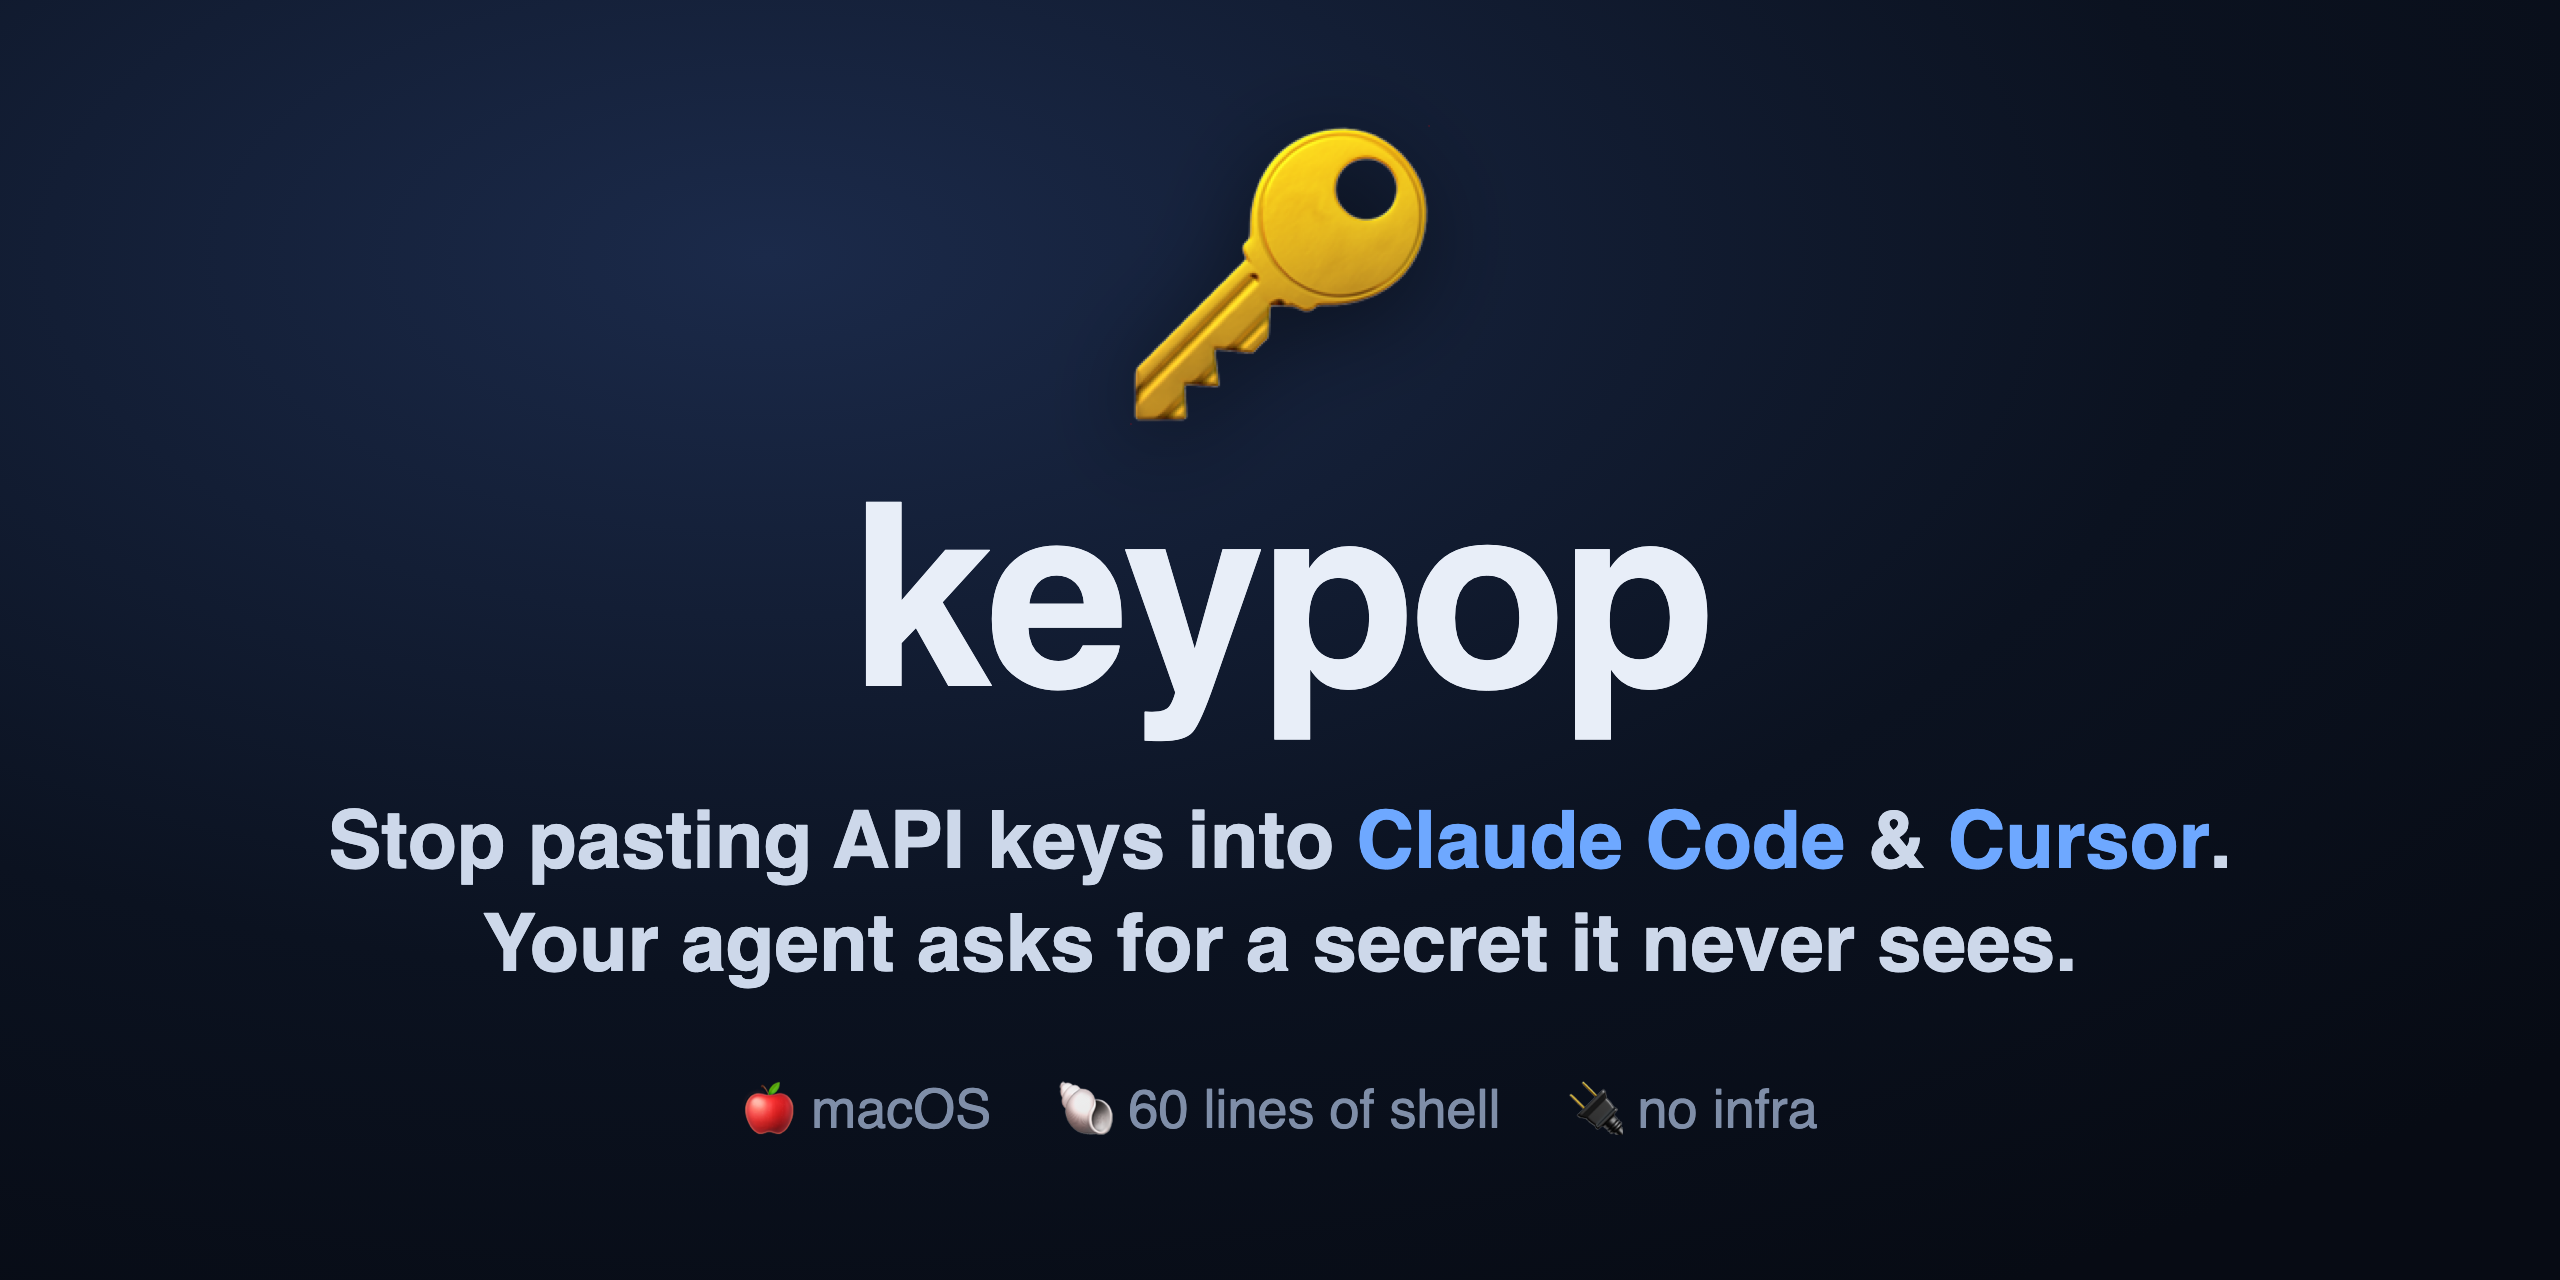
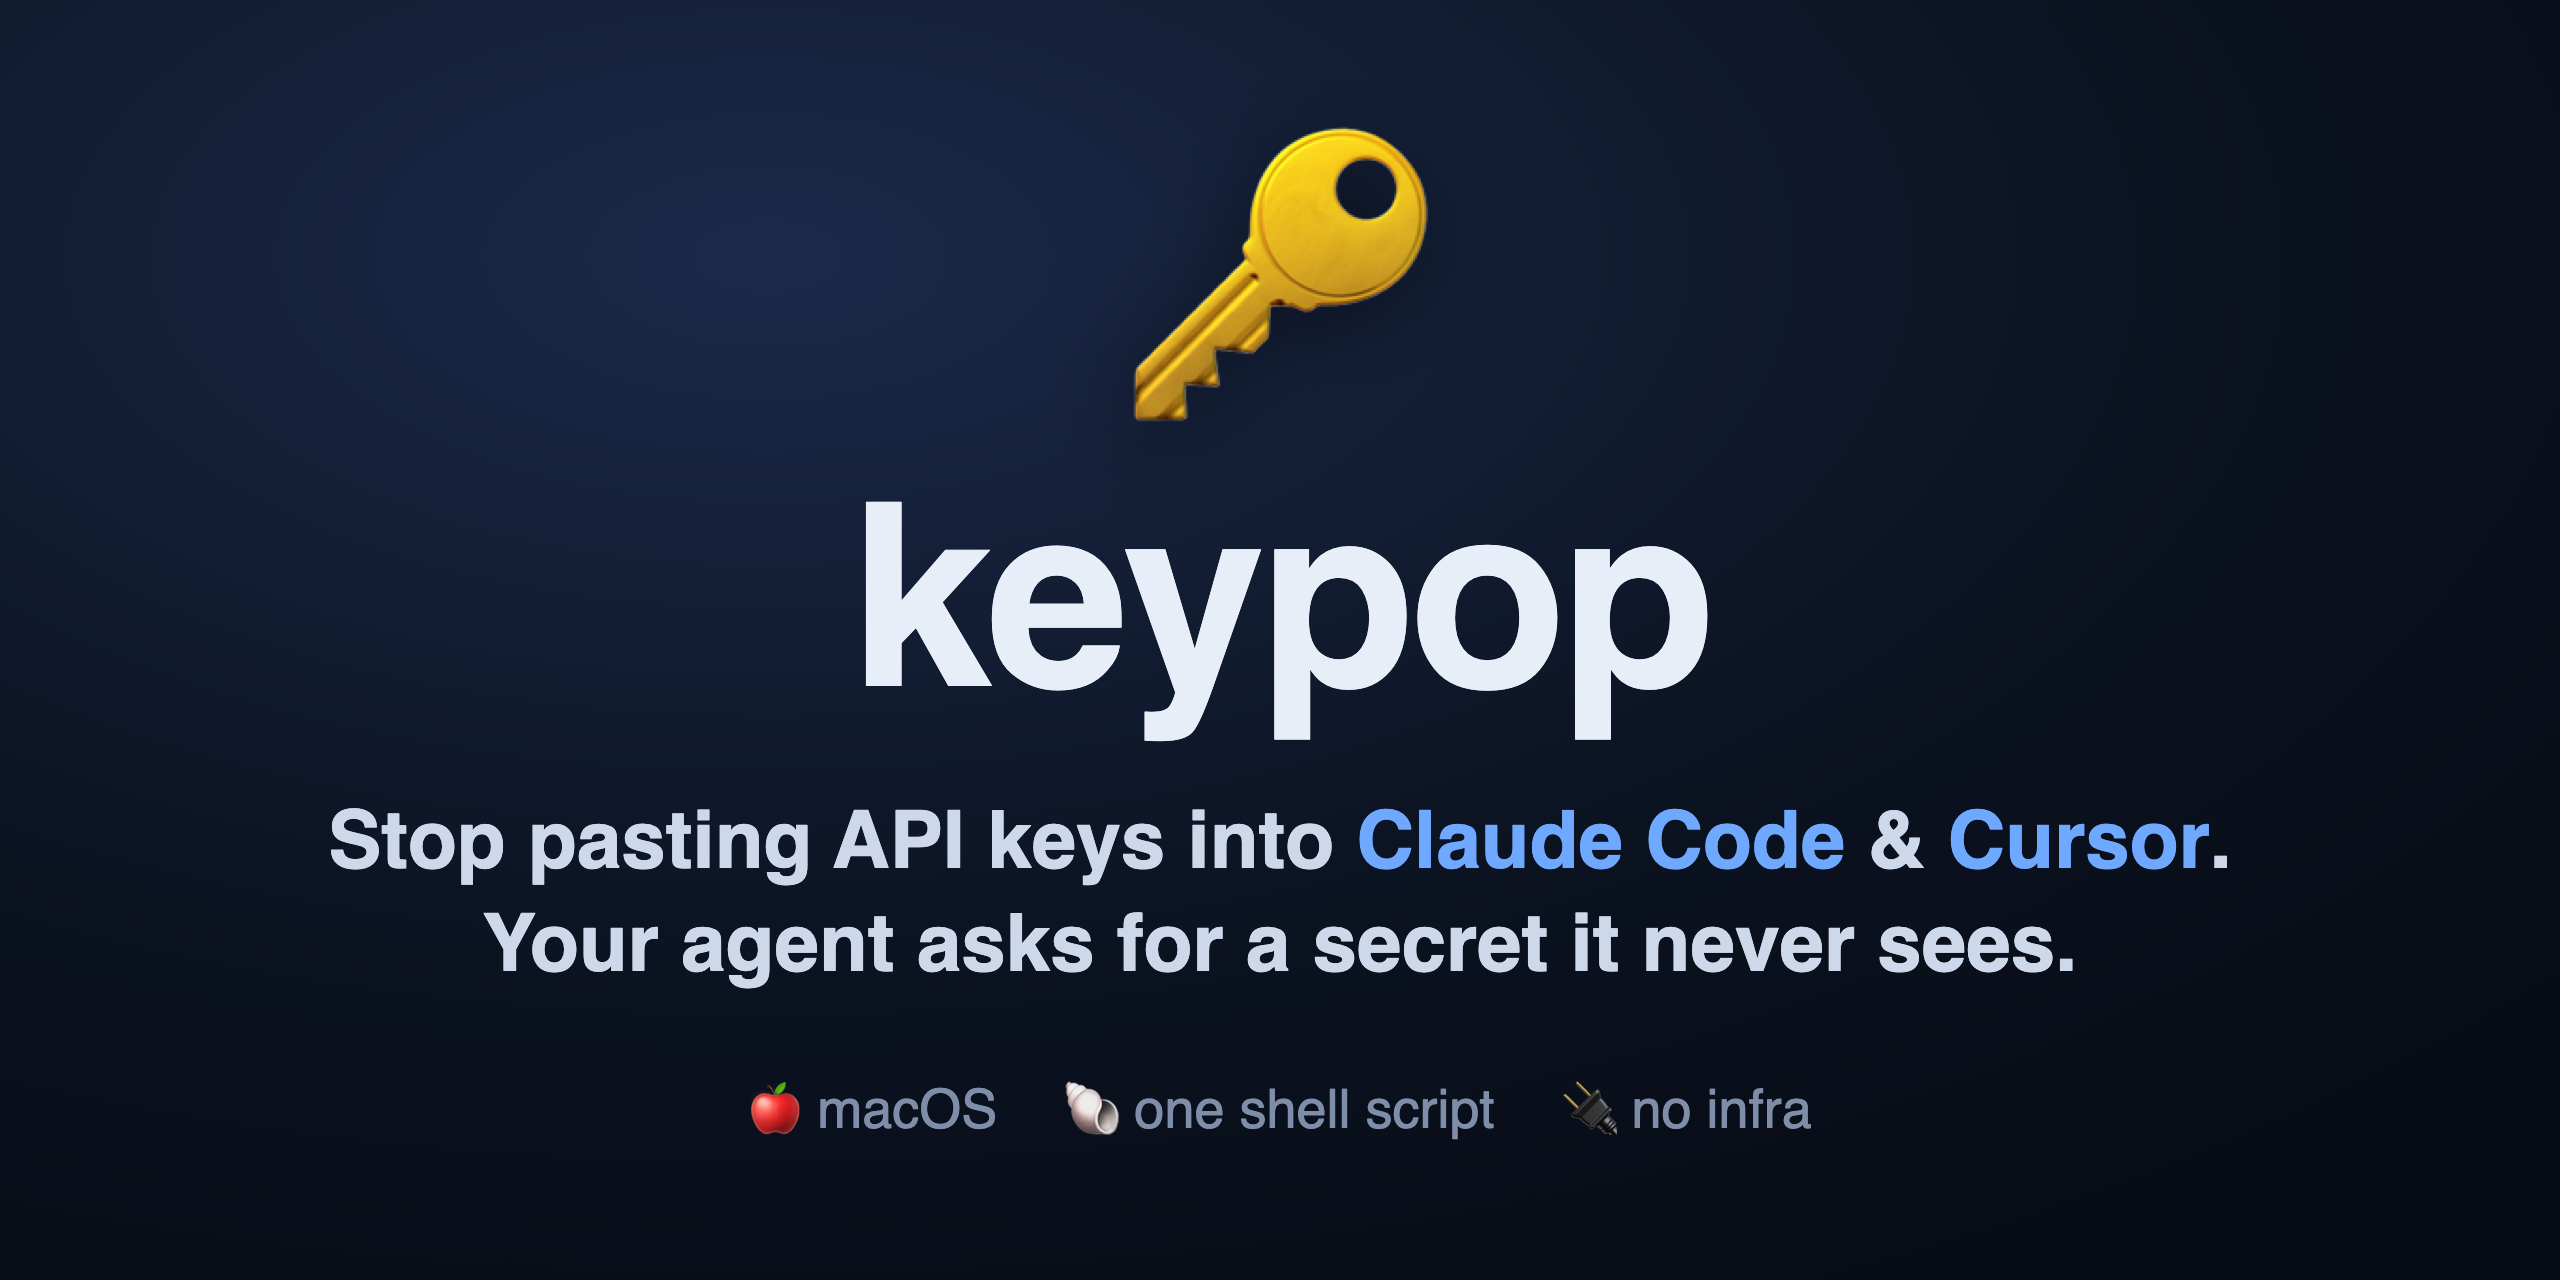
README: install and first command above the fold (#1)
* docs: install and first command above the fold, drop the 60-lines claim

The script is 241 lines, so '60 lines of shell' was wrong. Social image re-rendered from social.html.

* docs: install into ~/.local/bin so the first command needs no sudo

---------

Changed region(s): [[0.2812, 0.8438, 0.7188, 0.9062]]

diff --git a/assets/social.html b/assets/social.html
@@ -26,7 +26,7 @@
   <div class="tag">Stop pasting API keys into <b>Claude Code</b> &amp; <b>Cursor</b>.<br>Your agent asks for a secret it never sees.</div>
   <div class="meta">
     <span>🍎 macOS</span>
-    <span>🐚 60 lines of shell</span>
+    <span>🐚 one shell script</span>
     <span>🔌 no infra</span>
   </div>
 </body>

diff --git a/README.md b/README.md
@@ -1,9 +1,9 @@
 <h1 align="center">🔑 keypop</h1>
 
 <p align="center"><b>Stop pasting API keys into Claude Code, Cursor, and other AI agents.</b><br>
-keypop pops a native dialog so your agent collects a secret it never sees — the value goes to a local file, never the model's context.</p>
+Your agent asks for a key by name, a native macOS dialog collects it, and the value goes to a local file. The model never sees it.</p>
 
-<p align="center">🍎 macOS · 🐚 60 lines of shell · 🔌 no infra, no daemon, no account</p>
+<p align="center">🍎 macOS · 🐚 one shell script · 🔌 no infra, no daemon, no account</p>
 
 <p align="center">
 <a href="https://github.com/dylanpulver/keypop/actions/workflows/ci.yml"><img src="https://github.com/dylanpulver/keypop/actions/workflows/ci.yml/badge.svg" alt="CI"></a>
@@ -13,17 +13,23 @@ keypop pops a native dialog so your agent collects a secret it never sees — th
 
 <p align="center"><img src="assets/demo.gif" alt="keypop demo: an agent runs keypop, a native dialog collects the API key, the terminal shows only 'saved: OPENAI_API_KEY (164 chars)'" width="760"></p>
 
+```bash
+git clone https://github.com/dylanpulver/keypop.git && mkdir -p ~/.local/bin && ln -s "$PWD/keypop/keypop" ~/.local/bin/keypop
+keypop OPENAI_API_KEY:"for embeddings"
+```
+
+That needs `~/.local/bin` on your `PATH`. No sudo involved.
+
+Then paste [`AGENT.md`](./AGENT.md) into your `CLAUDE.md` or rules file so the agent runs keypop instead of asking you for the key in chat.
+
 ---
 
-A secure secret-intake channel for AI coding agents (Claude Code, Cursor, etc.).
+**The problem:** when an agent needs a credential, the easy flow is "paste the key into chat."
+That value then lives in your transcript history, in logs and in the model's context window.
 
-**The problem:** when an agent needs a credential, the obvious flow is "paste the key
-into chat." That value then lives in your transcript history, in logs, and in the model's
-context window — everywhere except where you want it.
-
-**The fix:** the agent requests a secret *by name*; a native OS dialog collects the *value*
-out-of-band; the value goes straight to a local, gitignored file. The secret never transits
-the model's context.
+**The fix:** the agent requests a secret *by name*. A native OS dialog collects the *value*
+out of band, and the value goes straight to a local, gitignored file. The secret never passes
+through the model's context.
 
 ```
 agent  ──"I need OPENAI_API_KEY"──▶  keypop  ──▶  native macOS dialog (hidden input)
@@ -32,16 +38,9 @@ agent  ──"I need OPENAI_API_KEY"──▶  keypop  ──▶  native macOS d
                                              ~/.keypop/vault.env  (chmod 600)
 ```
 
-The agent sees only the confirmation (`saved: OPENAI_API_KEY (164 chars)`) — never the value.
+The agent sees only the confirmation (`saved: OPENAI_API_KEY (164 chars)`), never the value.
 
-## Install
-
-```bash
-git clone https://github.com/dylanpulver/keypop.git
-ln -s "$PWD/keypop/keypop" /usr/local/bin/keypop   # or add to PATH
-```
-
-macOS only for now (uses `osascript`). Linux port via `zenity`/`kdialog` is a welcome PR.
+macOS only for now (uses `osascript`). A Linux port via `zenity`/`kdialog` is a welcome PR.
 
 ## Usage
 
